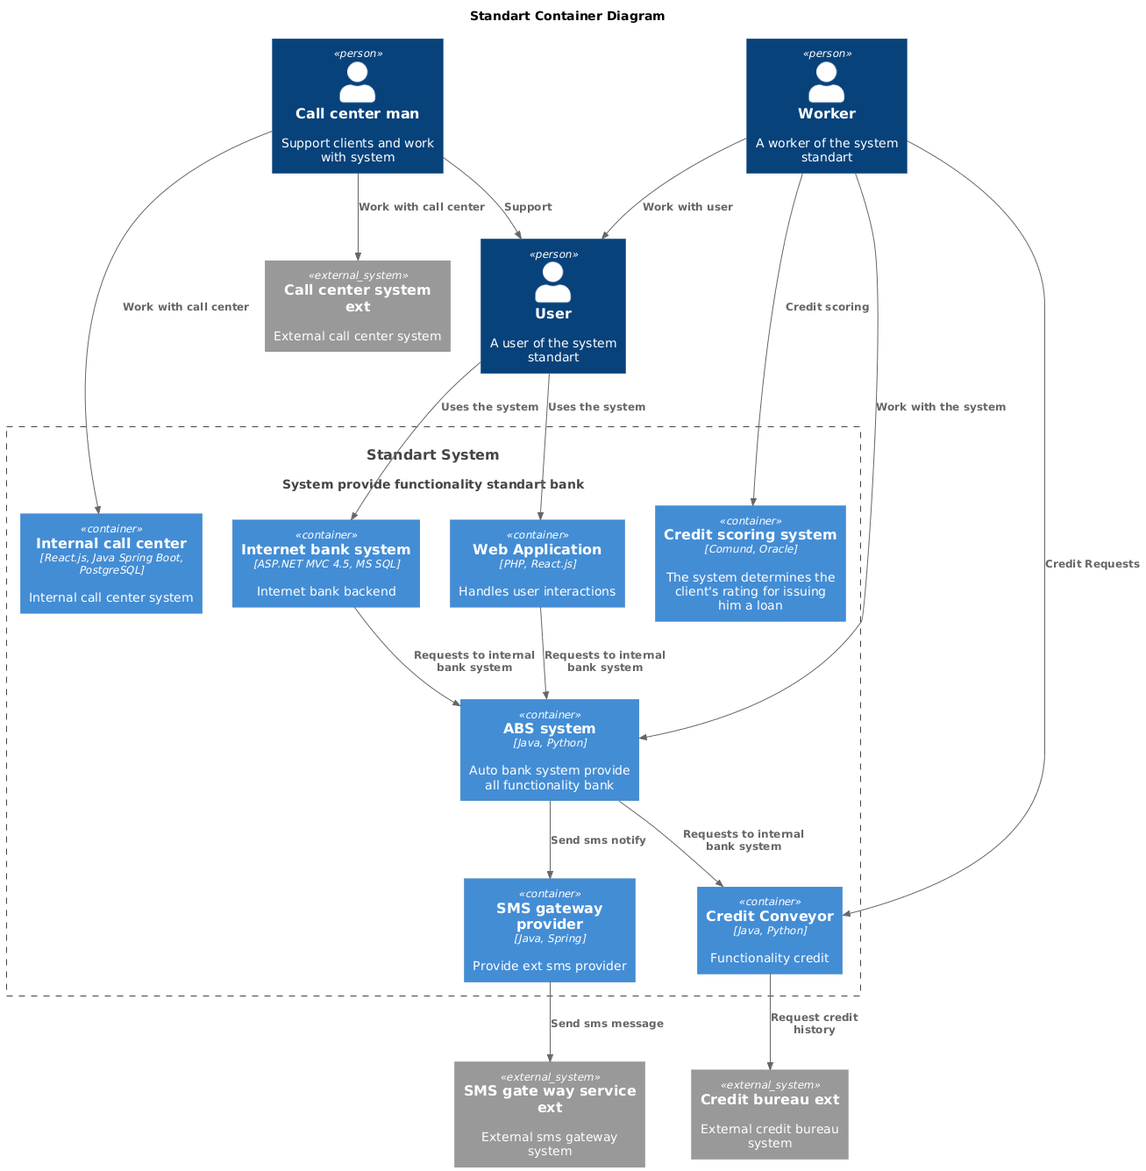
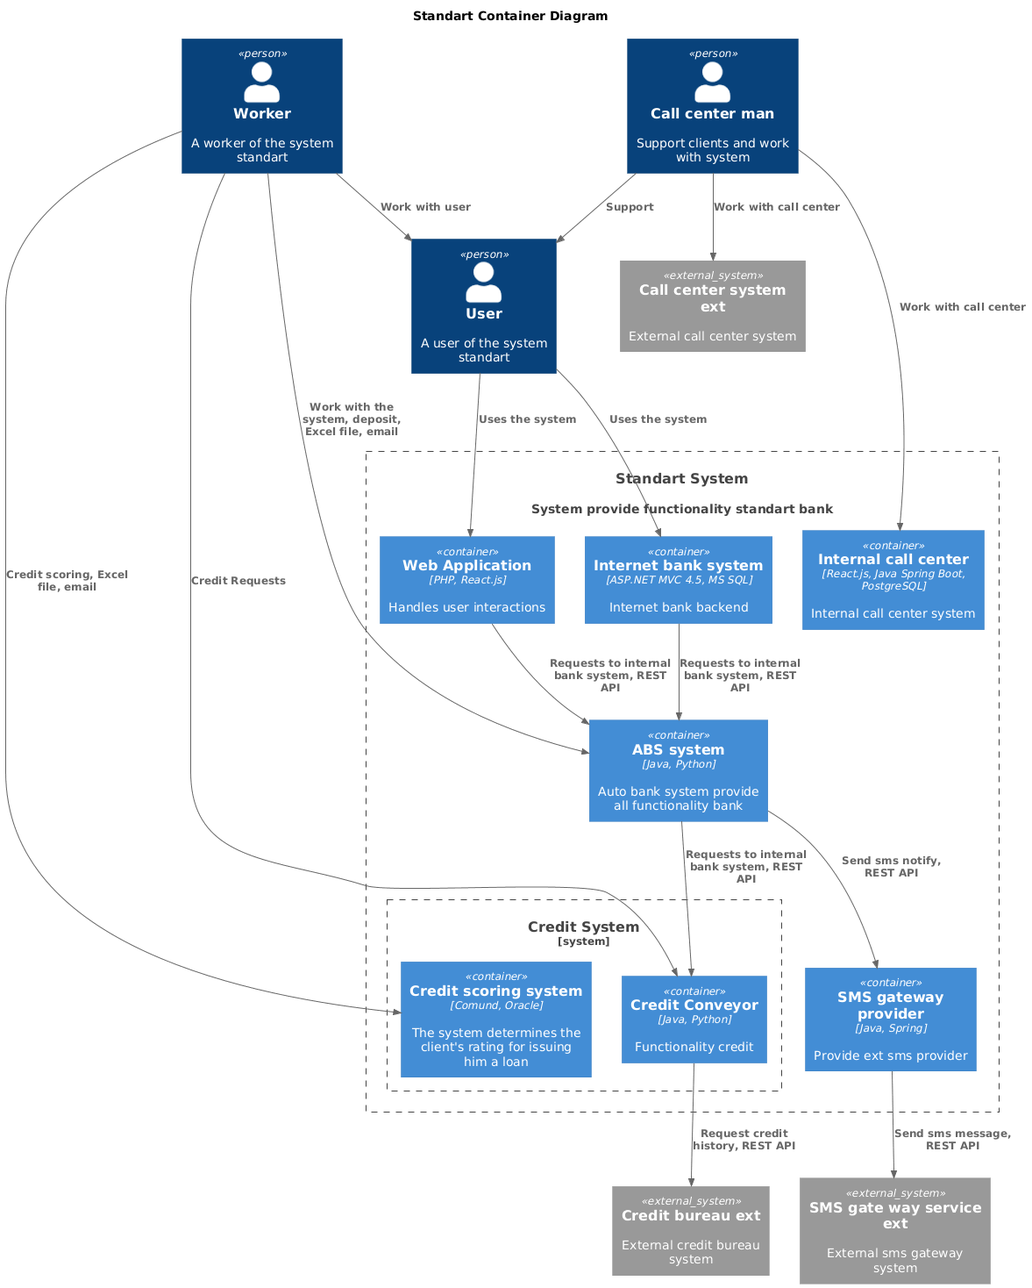
fix feedback

diff --git a/Task5/ADR.md b/Task5/ADR.md
@@ -5,16 +5,28 @@
 ### <a name="_3bfxc9a45514"></a>**Функциональные требования**
 |**№**|**Действующие лица или системы**|**Use Case**|**Описание**|
 | :-: | :- | :- | :- |
-| UC1 | Пользователь, Интернет-банк | Предодобренное предложение  | 1. Пользователь заходит на сайт. 2. Видит предодобренную заявку 3. Заполняет данные. 4. Получает кредит в течение одного дня. |
-| UC2 | Пользователь, Интернет-банк | Заявка на кредит | 1. Пользователь заходит на сайт. 2. Заполняет данные. 3. Получает результат заявки в течение одного дня.|
-| UC3 | Система банка стандарт | Расчет предодобренного кредита | 1. Сервис собирает актуальные данные клиента 2. Вызывается система кредитного скоринга с обращением к кредитной истории. 3. На основании оценки выдаются условия кредитного предложения|
+| UC1 | Пользователь, Интернет-банк, Сайт | Просмотр предложений  | 1. Пользователь заходит на сайт/ИБ. 2. Отпрвляется запрос в систему банка на возможные условия кредита 3. Отображаются общие условия кредита 
+| UC2 | Пользователь, Интернет-банк | Предодобренное предложение  | 1. Пользователь заходит в Интернет-банк. 2. Видит предодобренную заявку 3. Клиент заполняет счет зачисления и данные заявки. 4. Подтверждает смс код. 5. Получает кредит в течение одного дня. |
+| UC3 | Пользователь, Интернет-банк | Заявка на кредит без паспорта | 1. Пользователь заходит на сайт. 2. Заполняет данные. 3. Приходит предложение по смс с актуальными ставками и возможностью посетить офис|
+| UC4 | Пользователь, Интернет-банк | Заявка на кредит с паспортом | 1. Пользователь заходит на сайт. 2. Заполняет данные. 3. Обрабатываются данные из системы кредитных историй + система скоринга 4. По смс приходит результат с одобрением или неодобрением|
+| UC5 | Система банка стандарт | Расчет предодобренного кредита | 1. Сервис собирает актуальные данные клиента 2. Вызывается система кредитного скоринга с обращением к кредитной истории. 3. На основании оценки выдаются условия кредитного предложения|
+| UC5 | Пользователь, менеджер, АБС | Заявка в отделении | 1. Клиент приходит в офис 2. Менеджер подает заявку на расчет. 3. Если была предодобрена заявка, работа с ней, если клиент новый, заявка новая|
 ### <a name="_u8xz25hbrgql"></a>**Нефункциональные требования**
 |**№**|**Требование**|
-| +R1 | Обмен между базами АБС и кредитного конвейера 1 раз в сутки  |
-| +R2 | Система кредитного скоринга испытывает повышенную нагрузку |
-| +R3 | Информирование СМС |
+| R | Время работы 24/7  |
+| P | Горизонтальное масштабирование конвейера/скоринга  |
+| O | Метрики, логи, трассировка  |
+| +R1 | Обработка запросов на кредит за 1 день  |
+| +R2 | Обмен между базами АБС и кредитного конвейера 1 раз в сутки  |
+| +R3 | Система кредитного скоринга испытывает повышенную нагрузку |
+| +R4 | Информирование СМС |
+| +R5 | Вертикальное ограничение АБС  |
 ### <a name="_qmphm5d6rvi3"></a>**Решение**
 Для решения повышенной нагрузки системы скоринга, предполагается время её использования для расчета предварительных заявок ночью. 
+
+Кредитный контейнер обрабатывает заявки на кредит из ИБ и с сайта, реализует функционал расчета предодобренных заявок. Ассинхронный запрос в бюро кредитных историй и начинает процесс расчета предодобренных предложений. Отправляет sms уведомления через провайдер sms уведомлений и уведомления пользователю через брокер сообщений и сервис уведомлений. 
+
+Фронт общается с кредитным контейнером через service mesh. Использование паттерна BFF на данном этапе избыточно.
 ### <a name="_bjrr7veeh80c"></a>**Альтернативы**
 - Разбиение и оптимизация БД
 

diff --git a/Task3/ADR.md b/Task3/ADR.md
@@ -1,13 +1,15 @@
 
+
 ### <a name="_b7urdng99y53"></a>**Название задачи:**  Цифровая трансформация банка "Стандарт"
 ### <a name="_hjk0fkfyohdk"></a>**Автор:**  Баранов Илья
 ### <a name="_uanumrh8zrui"></a>**Дата:** 29.10.2025
 ### <a name="_3bfxc9a45514"></a>**Функциональные требования**
 |**№**|**Действующие лица или системы**|**Use Case**|**Описание**|
 | :-: | :- | :- | :- |
-| UC1 | Новый пользователь, сайт | Регистрация | 1. Пользователь интересуется продуктом. 2. Оставляет на сайте чувствительную информацию. 3. После звонка клиент приходит в банк для идентификации и регистрации. |
-| UC2 | Клиент, сайт | Открытие депозита | 1. В интернет-банке клиент видит доступные депозиты. 2. Подача заявки. 3. СМС подтверждение. |
-| UC3 | Менеджер бэк-офиса, АБС | Обработка заявки | 1. Менеджер получает заявку. 2. Подтверждение условий депозита 3. Отправка СМС уведомления клиенту. |
+| UC1 | Новый пользователь, сайт | Регистрация | 1. Пользователь интересуется продуктом. 2. Оставляет на сайте чувствительную информацию. 3. После звонка клиент приходит в банк для идентификации и регистрации.|
+| UC2 | Клиент, сайт | Открытие депозита в отделении| 1.Подача заявки в отделении. 2. Расчет сотрудниками на основе ставки. 3. Озвучивание результата заявки. |
+| UC3 | Клиент, колцентр, абс, бек оис | Открытие депозита с предварительным звонком| 1.Предварительный звонок в кол-центр. 2. Кол-центр заводит обращение. 3. Сотрудник бек офиса обрабатывает заявки и указание ставки. 4. СМС оповещение клиенту с указанной ставкой.|
+| UC4 | Менеджер бэк-офиса, АБС, система скоринга | Расчет ставки | 1. Анализ выданных кредитов и депозитов. 2. Расчет на основе ставки рефинансирования Центробанка и кредитного риска  3. Отправка ежедневного обновления в бэк офис по почте Excel файлом. |
 ### <a name="_u8xz25hbrgql"></a>**Нефункциональные требования**
 |**№**|**Требование**|
 | R1 |  Режим работы 24/7 |
@@ -15,11 +17,13 @@
 | P1 |  Время отклика миллисекунды |
 | P2 | Горизонтальное масштабирование |
 | P3 | Вертикальное масштабирование АБС |
+| P4 | Доставка уведомлений 1 день |
+| O1 | Метрики, логи, трассировка |
 | S1 | Документация |
-| +R1 | Безопасность и шифрование данных |
-| +R2 | Использование XLS файлов |
-| +R3 | Использование MS SQL |
-| +R4 | Нагрузка системы кредитного скоринга |
+| Sec1 | Защита ПДн MFA RBAC |
+| +R1 | Использование XLS файлов |
+| +R2 | Использование MS SQL |
+| +R3 | Нагрузка системы кредитного скоринга |
 | +R4 | Нагрузка БД АБС |
 ### <a name="_qmphm5d6rvi3"></a>**Решение**
 Текущая архитектура без сильных изменений. Пол года небольшой срок, чтобы кардинально менять основу и внедрять новые решения, например микросервисы. Предлагаю, внедрить ту часть которая отвечает за онлайн функционал. Бек оставить без сильных изменений. 

diff --git a/Task4/ADR.md b/Task4/ADR.md
@@ -1,4 +1,5 @@
 
+
 ### <a name="_b7urdng99y53"></a>**Название задачи:**  Передача ставок в кол-центр
 ### <a name="_hjk0fkfyohdk"></a>**Автор:**  Баранов Илья
 ### <a name="_uanumrh8zrui"></a>**Дата:** 29.10.2025
@@ -10,14 +11,18 @@
 | UC3 | Внутренний кол-центр, сервис актуальных ставок, АБС | Актуальные ставки | 1. Сервис собирает актуальные ставки у АБС 2. Внутренний кол-центр запрашивает актуальные ставки у сервиса.|
 ### <a name="_u8xz25hbrgql"></a>**Нефункциональные требования**
 |**№**|**Требование**|
-| +R2 | Использование XLS файлов |
-| +R3 | Использование шлюзов электронной почты |
-| +R4 | Поддержка микросервисов |
+| +R1 | Использование XLS, CSV файлов |
+| +R2 | Использование шлюзов электронной почты |
+| +R3 | Поддержка микросервисов |
+| +R4 | SLA доставки внутреннему кол-центру милисекунды |
+| +R5 | SLA доставки внешнему кол-центру ограничено провйдером электронной почты, не больше часа |
 ### <a name="_qmphm5d6rvi3"></a>**Решение**
-В текущая архитектура без сильных изменений не вносится дополнительных изменений. Добавляется новый функционал реализуемый с помощью микросервисов. Во внутреннем кол-центре необходимо поддержать взаимодействие с сервисом актуальных ставок. В АБС нужно поддержать REST API расчета ставок. 
+Фиксируется протокол файла с актульными ставками, версия 1. Добавляется новый функционал реализуемый с помощью микросервисов. Во внутреннем кол-центре необходимо поддержать взаимодействие с сервисом актуальных ставок. В АБС нужно поддержать REST API расчета ставок. Сервис актуальных ставок при обновлении дергает энд поинт внутреннего кол-центра, так же отправляет данные в провайдер электронной почты для внешнего кол-центра. Обуславливается время доставки внешнему кол-центру, если не были получены актуальные ставки спустя 1 час, внешний кол-центр запрашивает ставки вручную.
+
+Сервис актуальных ставок, хранит рассчитанные ставки во внутренней БД. Файл с актуальными ставки подписывается сертификатом.
 ### <a name="_bjrr7veeh80c"></a>**Альтернативы**
 - Поддержка внешнего кол-центра в виде REST API. Что облегчит изменения, например, расчет ставок для особенных клиентов. 
-
+- Сервис создания файла для генерация файла со ставками, избыточное решение на данном этапе. Сервис актуальных ставок может сам генерировать и отправлять файлы.
 **Недостатки, ограничения, риски**
 - Не учитывается расчет ставок для особенных клиентов.
 

diff --git a/Task2/FURPS+.md b/Task2/FURPS+.md
@@ -9,17 +9,21 @@
 |     | Брендированные элементы                                |              |
 | R   | Надёжность (Reliability)           |              |
 |     | Время работы 24/7     |              |
-|     | доступность 99.9%                                |              |
+|     | Доступность 99.99%, RTO - простой около 1 часа в год                                |              |
 | P   | Производительность (Performance)   |              |
-|     | Время отклика миллисекунды                                |              |
+|     | RPS: 1000 запросов в сек                                |              |
+|     | Время отклика: p99 - 1 милисекунда                                |              |
 |     | Горизонтальное масштабирование серверов                                |              |
 |     | Вертикальное масштабирование АБС                                |              |
 | S   | Поддерживаемость (Supportability)  |              |
 |     | Документация                                |              |
+| O   | Наблюдаемость (Observability)  |              |
+|     | Метрики, логи, трассировка                                |              |
+| Sec | Безопасность (Security)  |              |
+|     | Защита ПДн                               |              |
+|     | MFA RBAC                               |              |
 | +R  | + Ограничения (Restrictions)       |              |
-|     | Вертикальное масштабирование АБС                                |              |
-|     | Безопасность и шифрование данных                               |              |
 |     | Использование XLS файлов                              |              |
 |     | Использование MS SQL                              |              |
-|     | Нагрузка системы кредитного скоринга                              |              |
-|     | Нагрузка БД АБС                             |              |
+|     | Системы кредитного скоринга работает без запаса производительности                             |              |
+|     | БД АБС не справляется с нагрузкой                             |              |
